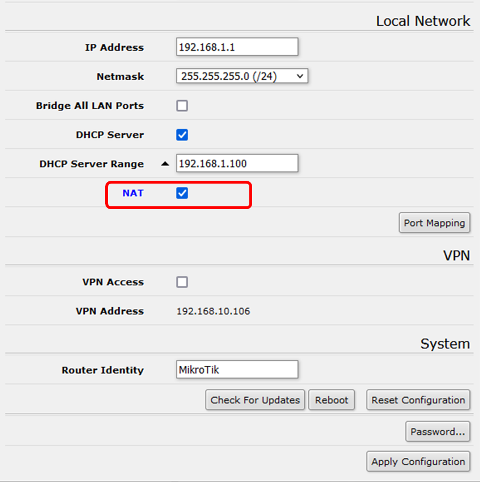
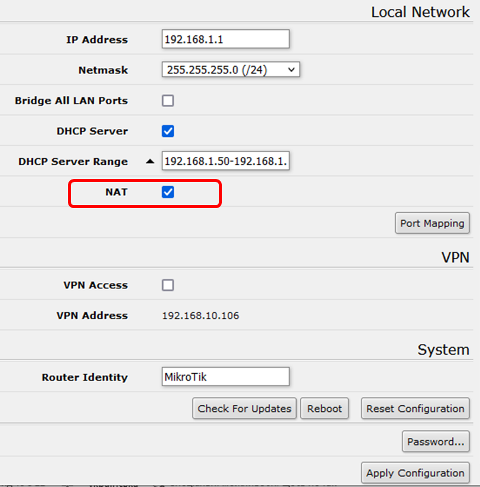
lab3 правки

diff --git a/lab/3.md b/lab/3.md
@@ -62,7 +62,8 @@
 #### 2. Налаштування мережної карти LAN для маршрутизатору 
 
 - [ ] У веб-консолі маршрутизатору автентифікуйте себе (користувач та пароль). Ви автоматично перейдете у вікно швидких налаштувань. 
-- [ ] Зверніть увагу на наявність 2-х мережних карт, що називаються `Internet` та `Local Network`. Для `Local Network` введіть `IP Address = 192.168.x.1` (де `x` - номер варіанту) та виберіть маску  Після цього натисніть `Apply Configuration`   
+- [ ] Зверніть увагу на наявність 2-х мережних карт, що називаються `Internet` та `Local Network` (рис.3.2). Для WAN за замовченням вказується автоматичний режим отримання адреси IP (`Automatic`), тому тут мережний інтерфейс як DHCP-клієнт отримав адресу `192.168.10.106` та `Gateway = 192.168.10.50` від DHCP-серверу в мережі. **У Вашому випадку це буде інша адреса, яку необхідно буде враховувати в майбутніх пунктах!**     
+- [ ] Для `Local Network` введіть `IP Address = 192.168.x.1` (де `x` - номер варіанту) та виберіть маску  Після цього натисніть `Apply Configuration` (рис.3.2.)  
 
 **Увага, надалі в прикладах буде використовуватися віртуальна локальна мережа `192.168.1.0` у вашому випадку буде мережа  `192.168.x.0` (де `x` - номер варіанту) !**
 
@@ -106,13 +107,13 @@
 
 #### 5. Налаштування DHCP для видачі з пула адрес
 
-У цьому пункті налаштовується DHCP Server для видачі IP-адрес з налаштовуваного пулу. У цьому випадку динамічні IP адреси будуть видаватися починаючи з 100-ї.
+У цьому пункті налаштовується DHCP Server для видачі IP-адрес з налаштовуваного пулу. У цьому випадку динамічні IP адреси будуть видаватися з 50 до 100 (але починаючи з 100-ї)
 
 - [ ] У вікні веб-консолі маршрутизатору перейдіть до відображення спрощеного інтерфейсу.
 
 ![image-20221030132438536](media3/image-20221030132438536.png)
 
-- [ ] Активуйте налаштування DHCP та зробіть діапазон видачі портів, починаючи з `192.168.1.100`. Після цього натисніть `Apply Configuration`   
+- [ ] Активуйте налаштування DHCP та зробіть діапазон видачі портів `192.168.1.50-192.168.1.100`. Після цього натисніть `Apply Configuration`   
 
 ![image-20221030133104189](media3/image-20221030133104189.png)
 
@@ -152,7 +153,7 @@
 - [ ] Знову відкрийте цей запис. Тепер зробіть певні зміни в налаштуваннях, що наведені нижче, після чого натисніть `Ok`:
 - змініть останній байт IP-адреси на `21`
 - видаліть `Client ID`, щоб правило діяло тільки на MAC-адресу 
-- видаліть порожнє поле  `DHOC Option Set`, якщо воно активне (інакше підтвердження не буде працювати)  
+- видаліть порожнє поле  `DHCP Option Set`, якщо воно активне (інакше підтвердження не буде працювати)  
 
 ![image-20221030152455133](media3/image-20221030152455133.png)
 
@@ -225,7 +226,7 @@
 
 рис.3.17. Схема конфігурації мережі
 
-- [ ] Виведіть таблицю маршрутизації для `VM MikrotikRouter` (див. попередні пункти). Зробіть копію екрану.
+- [ ] Виведіть таблицю маршрутизації для `VM MikrotikRouter` (див. попередній пункт, рис.3.16). Зробіть копію екрану.
 - [ ] Виведіть таблицю маршрутизації для хостової ОС (див [ЛР2](2.md)). Зробіть копію екрану в частині IPv4.
 - [ ] Виведіть таблицю маршрутизації для `VM User PC` (див ЛР2). Зробіть копію екрану.
 
@@ -274,6 +275,7 @@ ping 8.8.8.8
 рис.3.18. Активація NAT-серверу
 
 - [ ] На віртуальній машині `VM User PC` зробіть пінгування `8.8.8.8`. Тепер пінги повинні проходити вдало.
+- [ ] Зайдіть в `IP->Firewall->NAT`, в списку буде створене правило. 
 
 #### 11. Налаштування правил фільтрування пакетів
 
